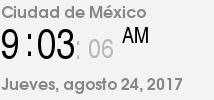
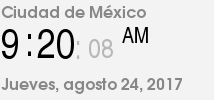
update images 24-08-2017 09:20

Changed region(s): [[0.1682, 0.3, 0.3645, 0.6], [0.4766, 0.39, 0.5327, 0.51]]

diff --git a/README.md b/README.md
@@ -13426,3 +13426,5 @@
 |24-08-2017 08:40
 |24-08-2017 08:50
 |24-08-2017 09:03
+|24-08-2017 09:11
+|24-08-2017 09:20
